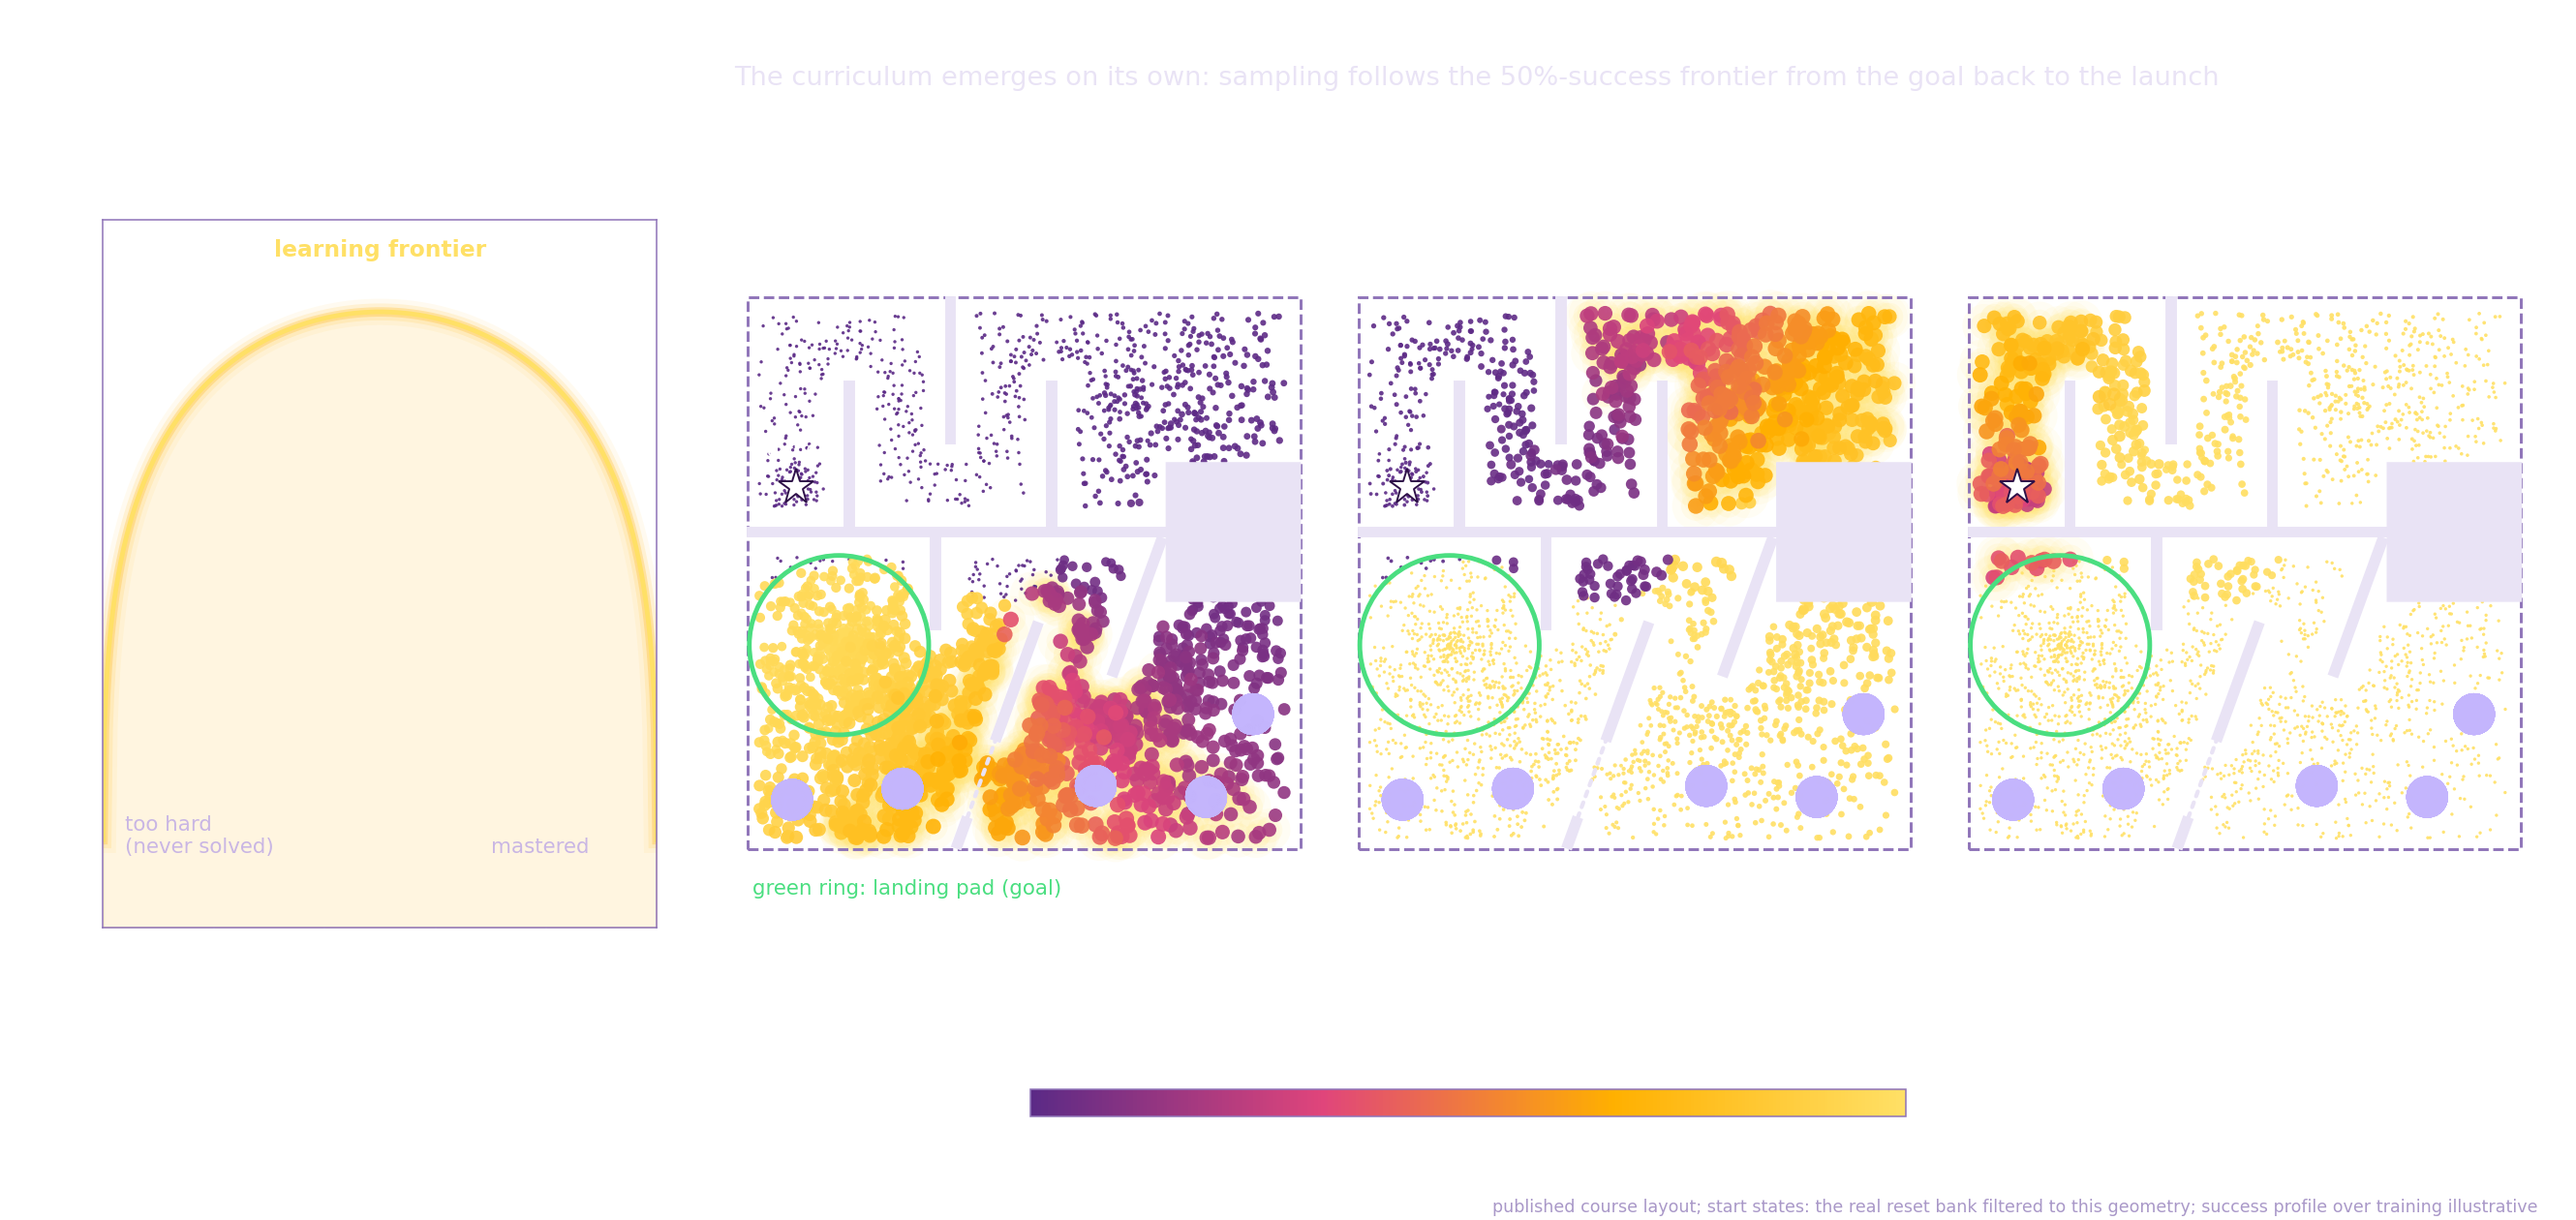
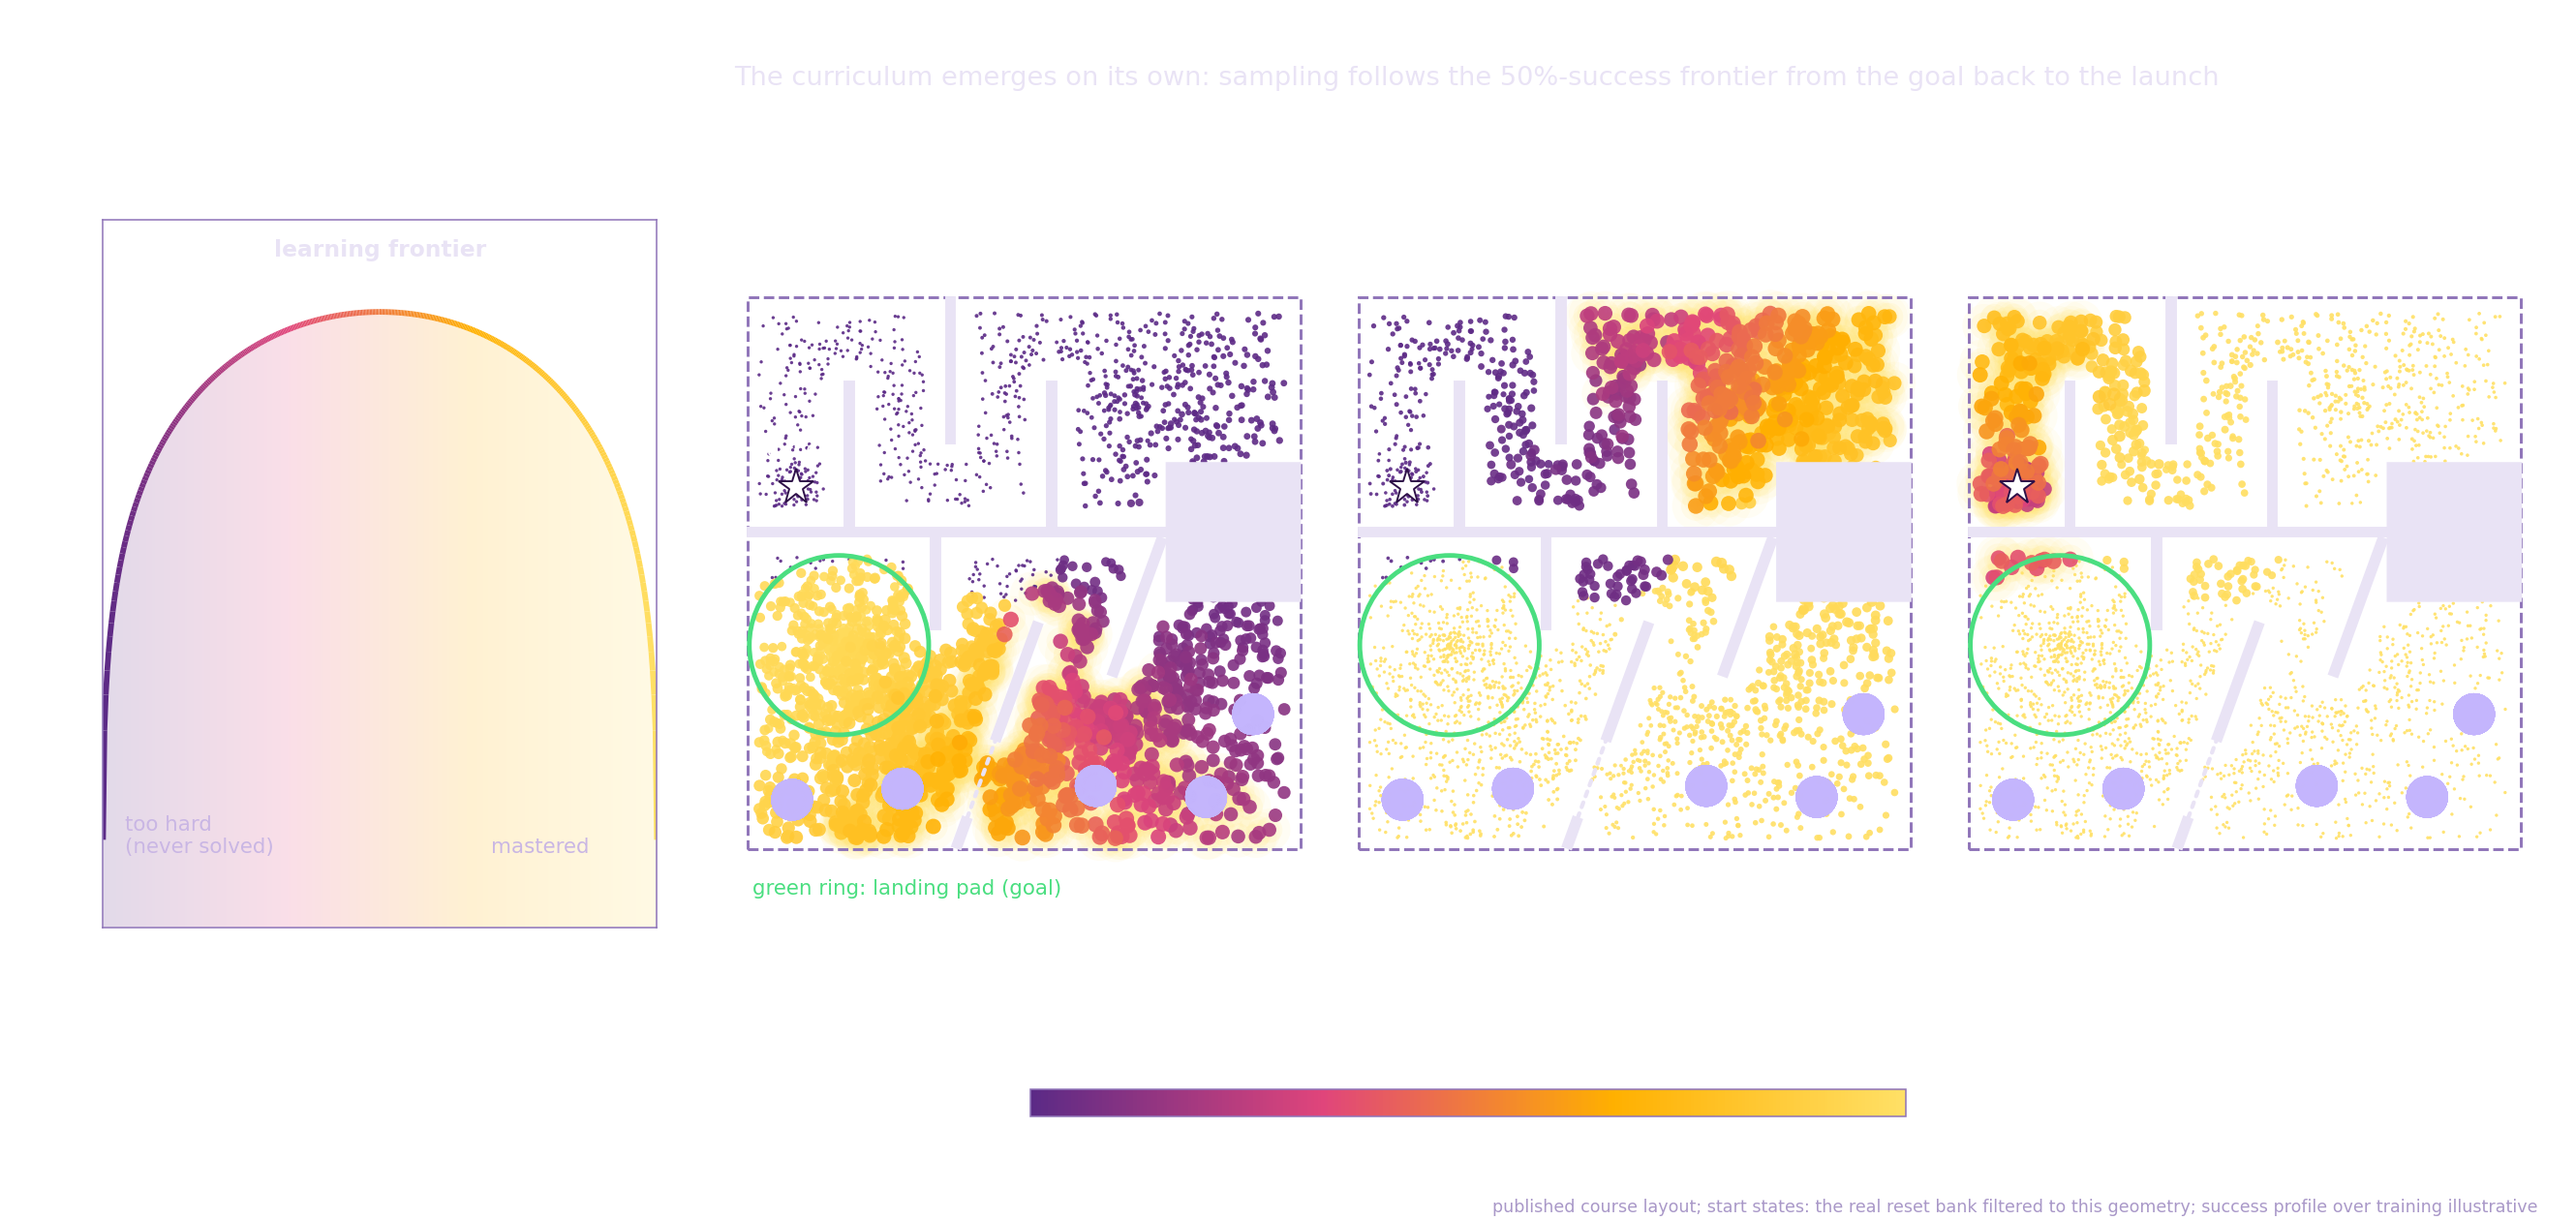
Team page call-to-action buttons; SGS figure with gradient frontier curve
Claude-Session: https://claude.ai/code/session_015TBtszPwQqXhpLdEYohx4R

Changed region(s): [[0.0312, 0.2476, 0.1872, 0.7738], [0.1872, 0.2786, 0.2496, 0.4643], [0.0936, 0.1857, 0.1872, 0.2167]]

diff --git a/src/styles/site.css b/src/styles/site.css
@@ -69,6 +69,61 @@ nav a:hover,
   text-decoration: underline;
   text-underline-offset: 5px;
 }
+nav a.nav-cta {
+  padding: 0.55rem 1.1rem;
+  border-radius: 999px;
+  color: var(--background);
+  background: var(--accent);
+  font-size: 0.85rem;
+  font-weight: 700;
+  text-decoration: none;
+  transition:
+    transform 0.15s ease,
+    box-shadow 0.15s ease;
+}
+nav a.nav-cta:hover {
+  color: var(--background);
+  text-decoration: none;
+  transform: translateY(-1px);
+  box-shadow: 0 6px 18px -6px var(--accent);
+}
+nav a.nav-cta[aria-current="page"] {
+  color: var(--accent);
+  background: transparent;
+  box-shadow: inset 0 0 0 1.5px var(--accent);
+}
+.team-cta {
+  display: inline-flex;
+  align-items: center;
+  gap: 0.5rem;
+  margin-top: 1.6rem;
+  padding: 0.8rem 1.4rem;
+  border-radius: 999px;
+  color: var(--background);
+  background: var(--accent);
+  font-weight: 700;
+  text-decoration: none;
+  transition:
+    transform 0.15s ease,
+    box-shadow 0.15s ease;
+}
+.team-cta:hover {
+  transform: translateY(-2px);
+  box-shadow: 0 10px 24px -8px var(--accent);
+}
+.team-cta span {
+  transition: transform 0.15s ease;
+}
+.team-cta:hover span {
+  transform: translateX(3px);
+}
+@media (prefers-reduced-motion: reduce) {
+  .team-cta,
+  .team-cta span,
+  nav a.nav-cta {
+    transition: none;
+  }
+}
 .theme-toggle {
   display: grid;
   place-items: center;
